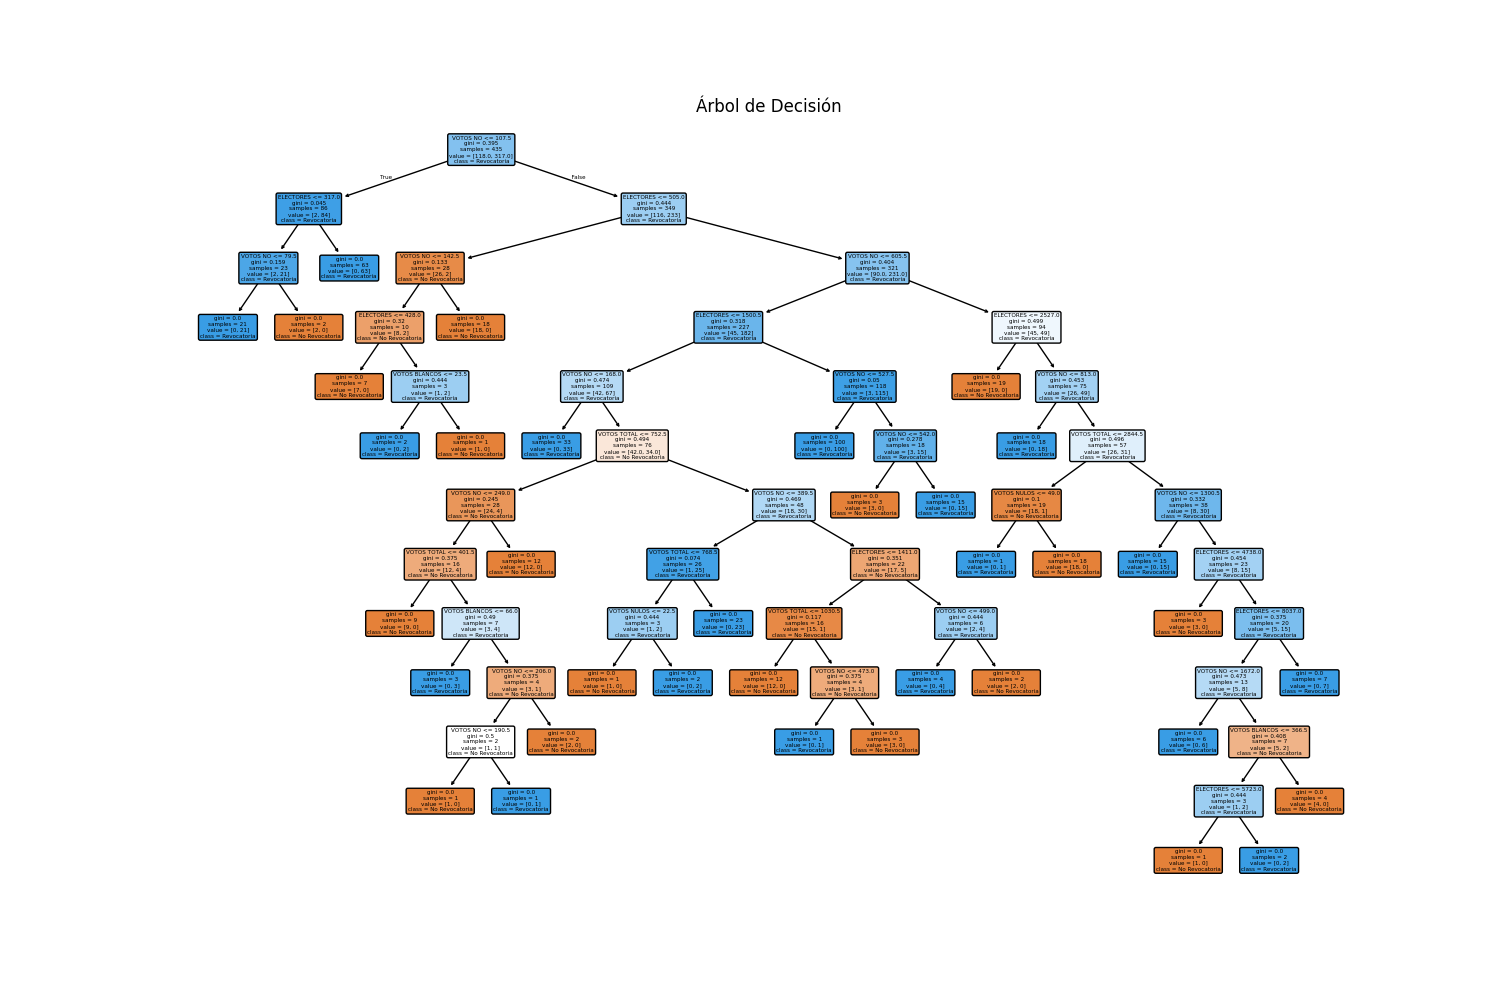
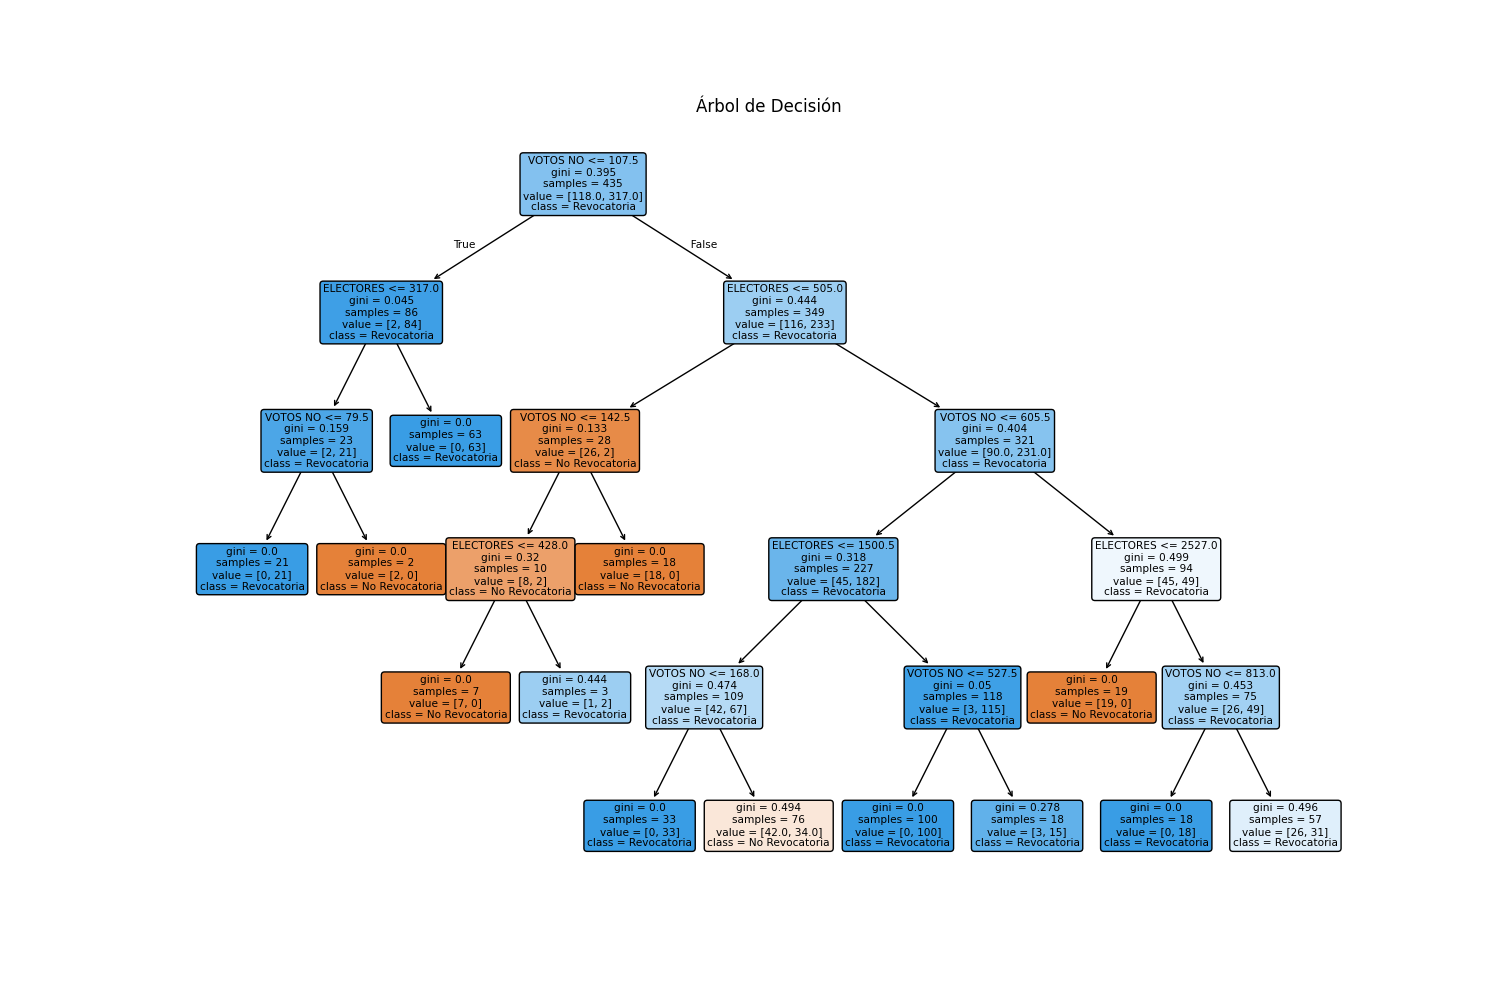
CAMBIOS EN ARBOL
CAMBIOS DE IMAGEN

Changed region(s): [[0.1227, 0.186, 0.92, 0.899], [0.276, 0.124, 0.4907, 0.248]]

diff --git a/8.- Arbol de decision/Arbol_de_decision.py b/8.- Arbol de decision/Arbol_de_decision.py
@@ -1,46 +1,55 @@
 import pandas as pd
 from sklearn.model_selection import train_test_split
-from sklearn.neighbors import KNeighborsClassifier
+from sklearn.tree import DecisionTreeClassifier, plot_tree
+from sklearn.metrics import classification_report, confusion_matrix
 import matplotlib.pyplot as plt
 import os
+import joblib  # Para guardar el modelo
 
-# 1. Cargar el archivo CSV (asegúrate de que el archivo esté en el mismo directorio o proporciona la ruta correcta)
-df = pd.read_csv("C:/Users/PC/Downloads/Resultados por distrito de la Revocatoria_Distrital.csv", encoding='ISO-8859-1', sep=';') 
+# 1. Cargar el archivo CSV
+try:
+    df = pd.read_csv("C:/Users/PC/Downloads/Resultados por distrito de la Revocatoria_Distrital.csv", 
+                     encoding='ISO-8859-1', sep=';')
+except FileNotFoundError:
+    print("El archivo no se encontró. Verifica la ruta.")
+    exit()
 
-# 2. Preprocesamiento
+# 2. Verificación y preprocesamiento
+if df.isnull().sum().any():
+    print("El dataset contiene valores nulos. Por favor, limpia los datos antes de proceder.")
+    exit()
+
 # Definir las características (features) y la variable objetivo (target)
-X = df[['ELECTORES', 'VOTOS NO', 'VOTOS BLANCOS', 'VOTOS NULOS', 'VOTOS IMPUGNADOS', 'VOTOS TOTAL']]  # Características
-y = df['VOTOS SI'] > df['VOTOS NO']  # 1 si "VOTOS SI" es mayor que "VOTOS NO", 0 si no
+X = df[['ELECTORES', 'VOTOS NO', 'VOTOS BLANCOS', 'VOTOS NULOS', 'VOTOS IMPUGNADOS', 'VOTOS TOTAL']]
+y = (df['VOTOS SI'] > df['VOTOS NO']).astype(int)  # Convertir a 0 y 1
 
 # 3. Dividir el dataset en conjunto de entrenamiento y conjunto de prueba
 X_train, X_test, y_train, y_test = train_test_split(X, y, test_size=0.3, random_state=42)
 
-# 4. Crear y entrenar el modelo de KNN
-knn = KNeighborsClassifier(n_neighbors=5)  # Puedes ajustar n_neighbors según lo que necesites
-knn.fit(X_train, y_train)
+# 4. Crear y entrenar el modelo de Árbol de Decisión con hiperparámetros
+model = DecisionTreeClassifier(random_state=42, max_depth=5, min_samples_split=10)
+model.fit(X_train, y_train)
 
-# 5. Crear la carpeta 'KNN' si no existe
-output_folder = 'KNN'
-if not os.path.exists(output_folder):
-    os.makedirs(output_folder)
+# 5. Evaluación del modelo
+y_pred = model.predict(X_test)
+print("Reporte de Clasificación:\n", classification_report(y_test, y_pred))
+print("Matriz de Confusión:\n", confusion_matrix(y_test, y_pred))
 
-# 6. Guardar la imagen de los resultados en la carpeta
-output_image_path = os.path.join(output_folder, 'KNN_resultados.png')
+# 6. Definir la carpeta "8.- Arbol de decision"
+output_folder = "8.- Arbol de decision"
+os.makedirs(output_folder, exist_ok=True)  # Asegurar que la carpeta existe, pero no crear otra
 
-# 7. Graficar los resultados para visualización (opcional)
-# Si deseas visualizar la distribución de los puntos en 2D (usando dos características, por ejemplo)
-plt.figure(figsize=(10, 6))
+# 7. Guardar el modelo entrenado
+model_path = os.path.join(output_folder, 'modelo_arbol_decision.pkl')
+joblib.dump(model, model_path)
+print(f"El modelo se ha guardado en: {model_path}")
 
-# Aquí usamos solo dos características para la visualización
-plt.scatter(X_train['ELECTORES'], X_train['VOTOS TOTAL'], c=y_train, cmap=plt.cm.Paired, edgecolors='k', s=30)
-plt.title("Distribución de datos de entrenamiento para KNN")
-plt.xlabel("ELECTORES")
-plt.ylabel("VOTOS TOTAL")
-plt.colorbar(label='Clase (Revocatoria)')
+# 8. Visualizar y guardar el árbol de decisión
+output_image_path = os.path.join(output_folder, 'Arbol_de_Decision.png')
+plt.figure(figsize=(15, 10))
+plot_tree(model, filled=True, feature_names=X.columns, class_names=['No Revocatoria', 'Revocatoria'], rounded=True)
+plt.title("Árbol de Decisión")
+plt.savefig(output_image_path)
+plt.close()
 
-# Guardar la imagen del gráfico
-plt.savefig(output_image_path)  # Guardar la imagen en la carpeta especificada
-plt.close()  # Cerrar la figura
-
-# Confirmación de que la imagen se guardó correctamente
-print(f"Los resultados de KNN se han guardado en: {output_image_path}")
+print(f"El árbol de decisión se ha guardado en: {output_image_path}")
